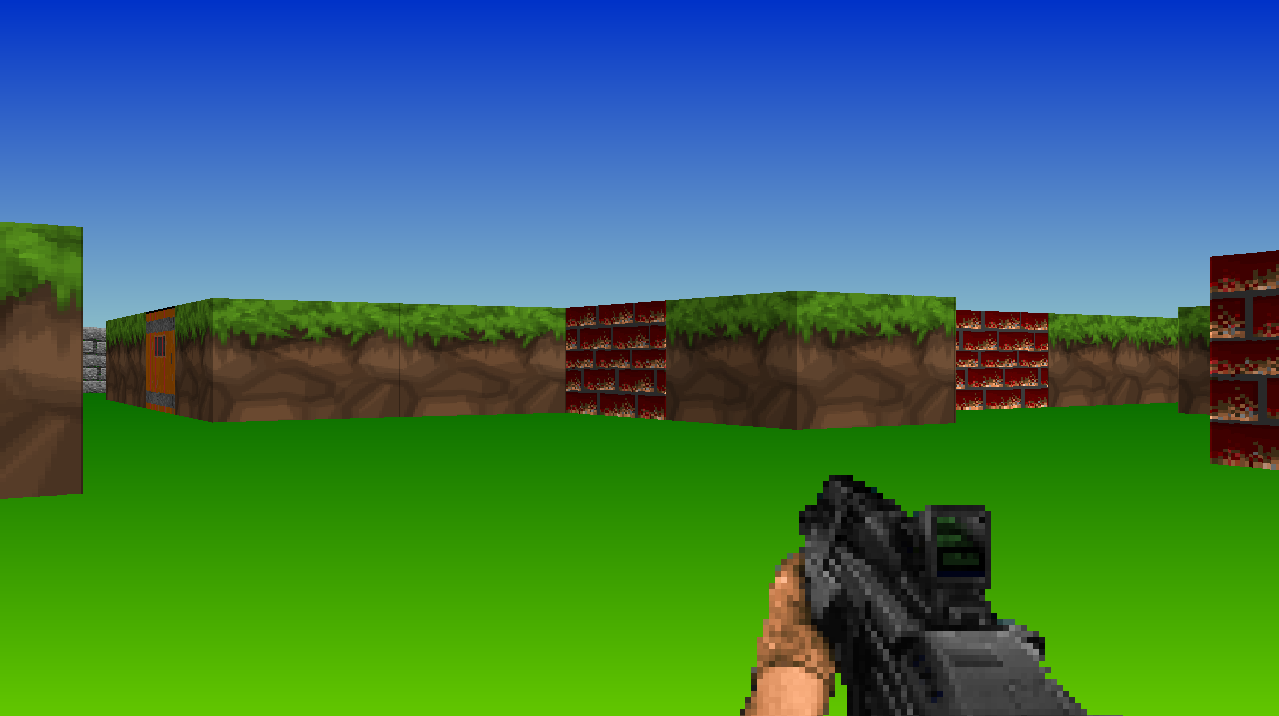
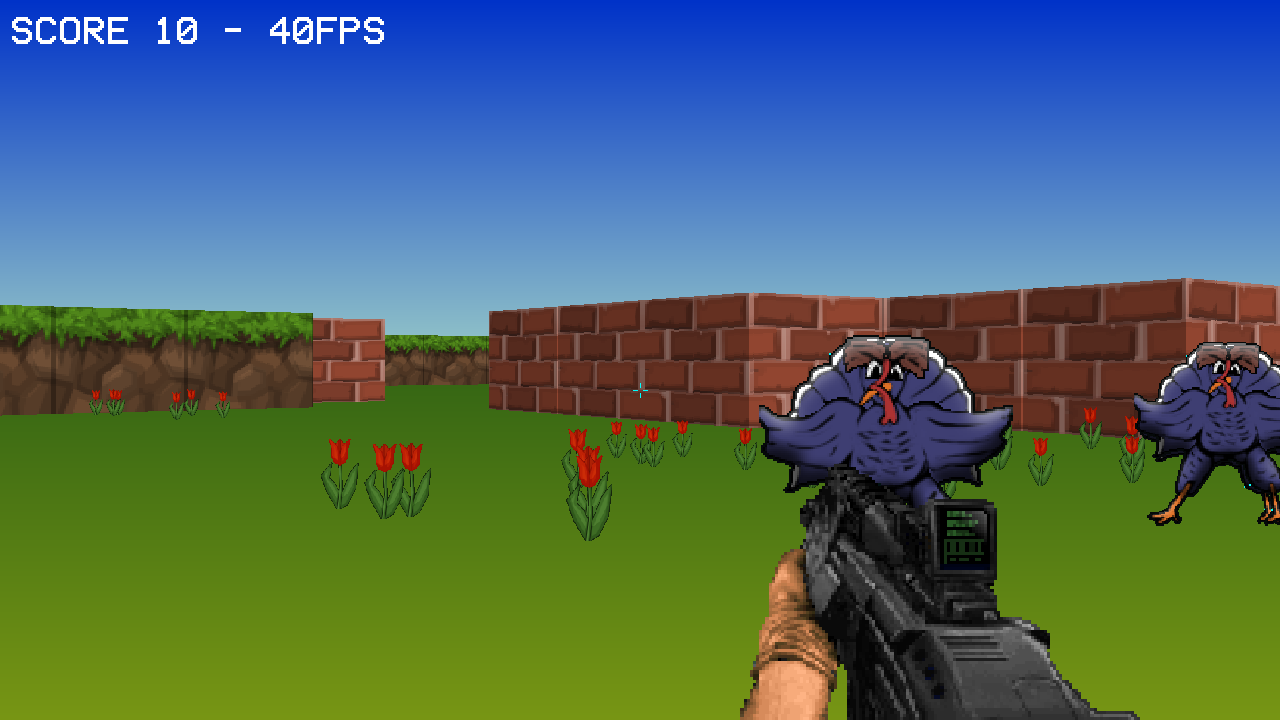
updated readme

diff --git a/README.md b/README.md
@@ -1,9 +1,9 @@
 # Thanksgiving Party
 
-Thanksgiving Party will be a game in the style of Wolfenstein 3D where you fight turkeys that are really angry.
+Thanksgiving Party is a game in the style of Wolfenstein 3D where you fight turkeys that are really angry.
 
-Made in C++ using SDL1.2
+Made in C++ using SDL2
 
-Curently using placeholder textures
+Wall textures and flowers made by BDCraft ( https://bdcraft.net )
 
 ![alt text](screenshot.png?raw=true "Screenshot")
